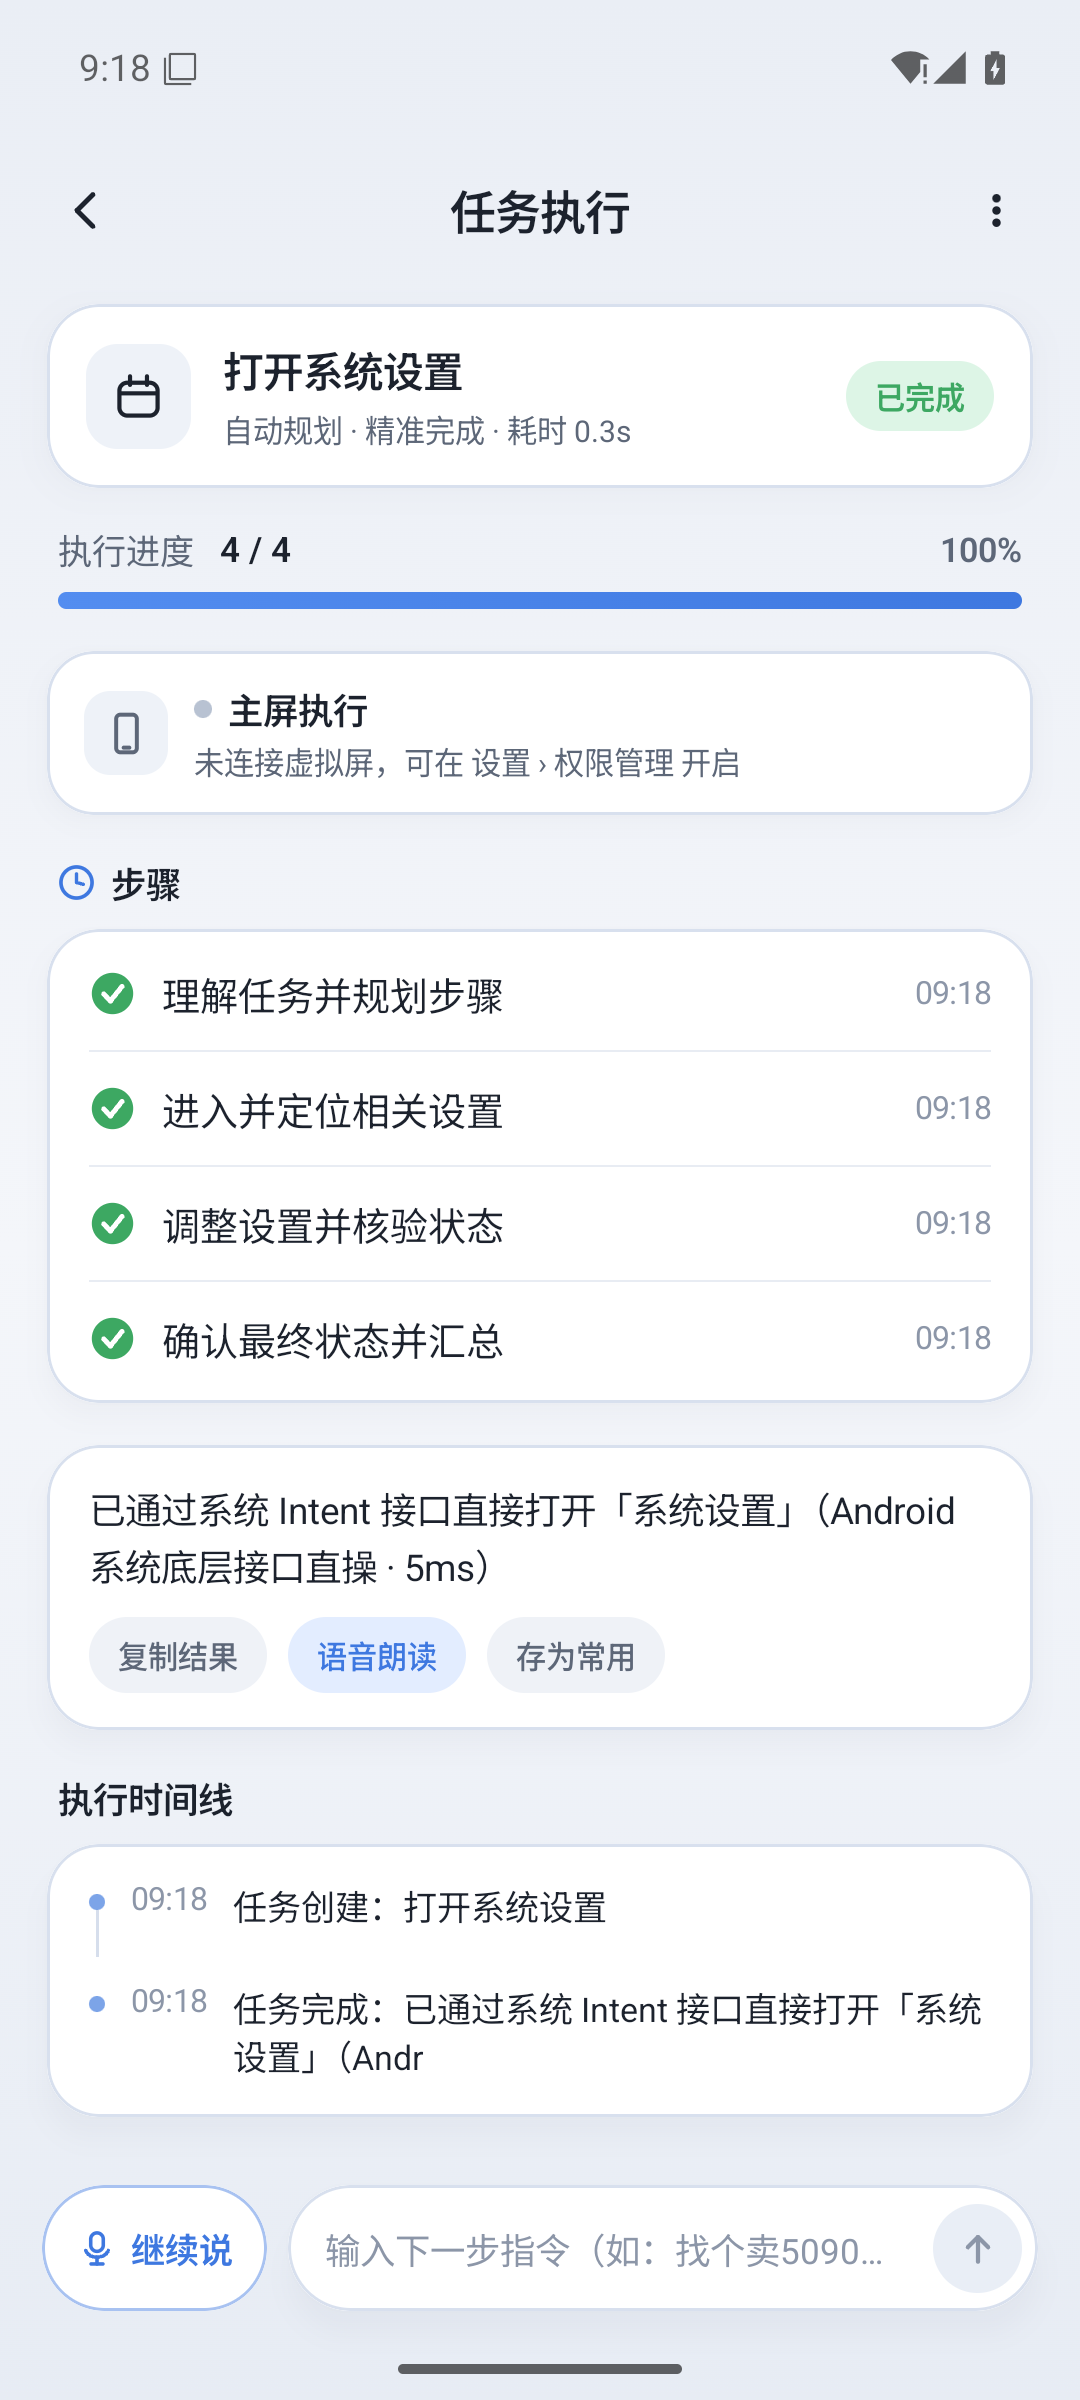
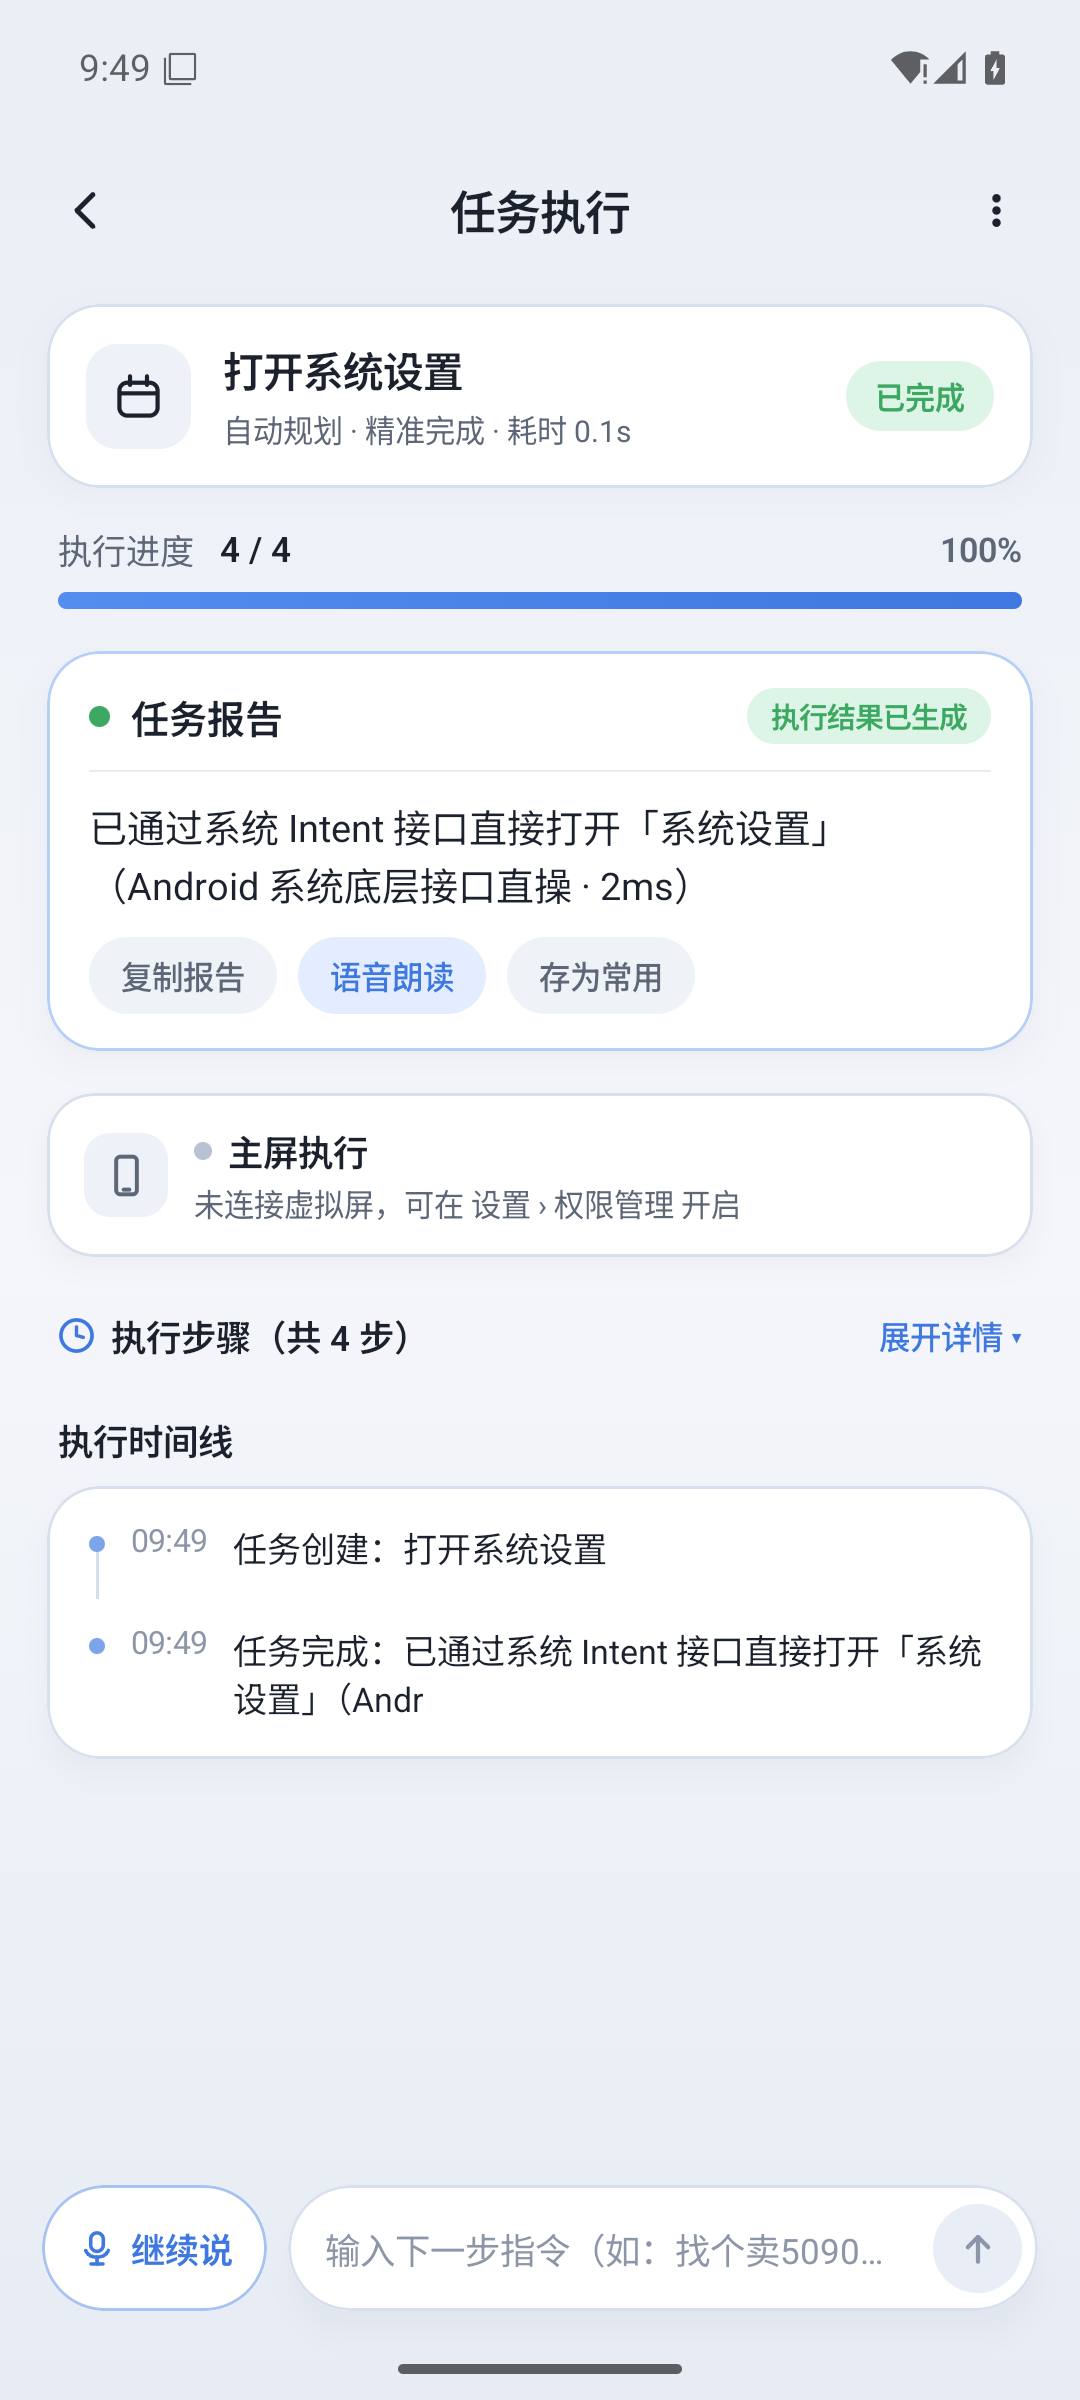
release(v9.0.1-public): add floating Task Report card over apps & top-pinned Screen 2 Task Report

diff --git a/README.md b/README.md
@@ -233,8 +233,8 @@ Sol Next 衷心致敬开源先驱 [wangzan101/Mika](https://github.com/wangzan10
 3. **SHA-256 校验与零内置密钥审计**：
 
 ```text
-1e680fff61f8e6f88beffa5ea6b1a9ddabea7aa88ee0823af3865e1ec7167a61  Sol-Next-v9.0.1-public-arm64.apk
-1bd82d6406c0b51712cb6fff25e4bfe3c8a4167772ec868799cdfb717f4d905d  Sol-Next-v9.0.1-public-universal.apk
+21eb129cb01658fe765489ae3d73af4c4b1a0e572dea934eab5e2040a86e78fc  Sol-Next-v9.0.1-public-arm64.apk
+b792f5ddc63d07d4e92c8f2d6f095ed31f8efddc279a1d813b3c7d8e29a82a0a  Sol-Next-v9.0.1-public-universal.apk
 ```
 
 ```bash
